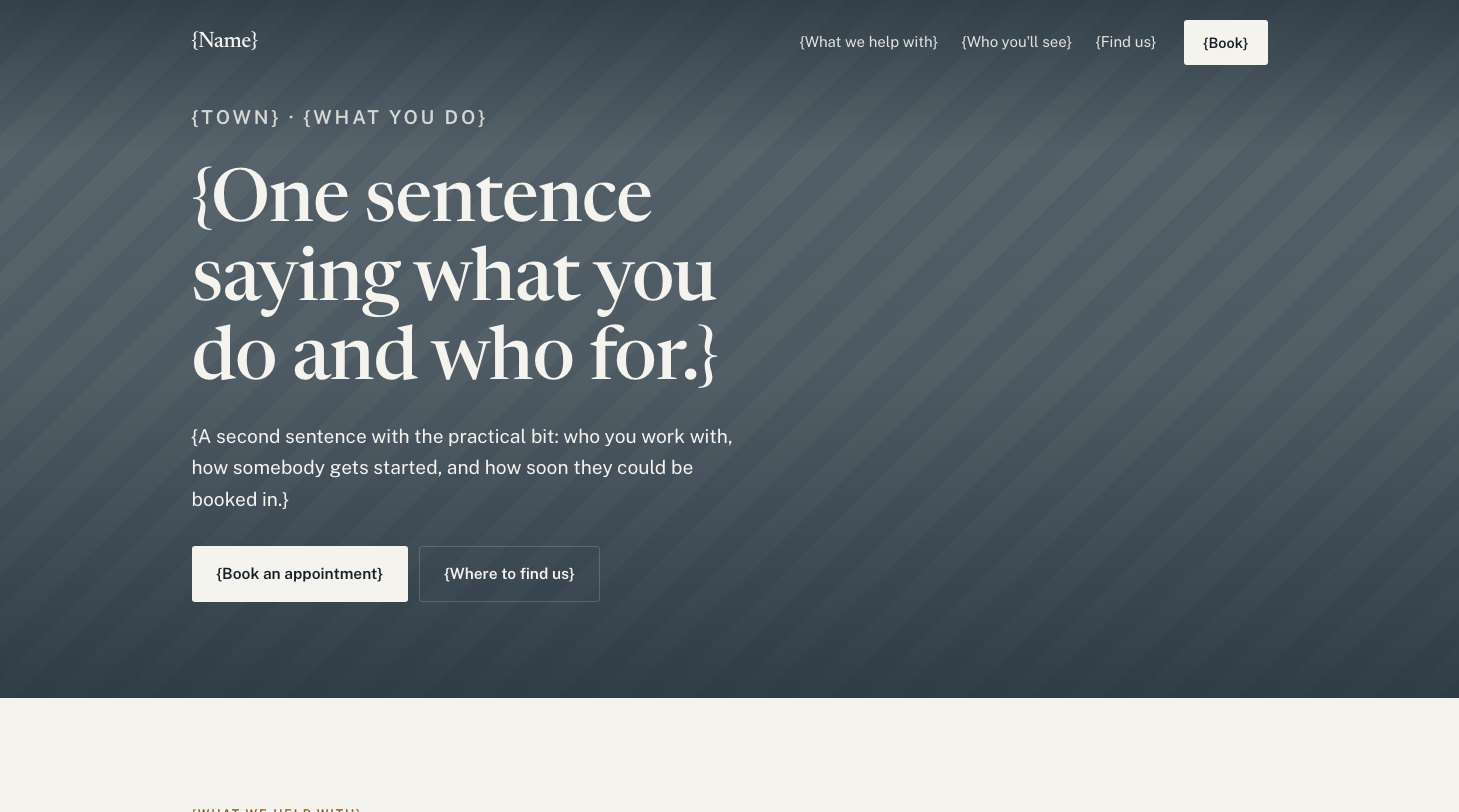
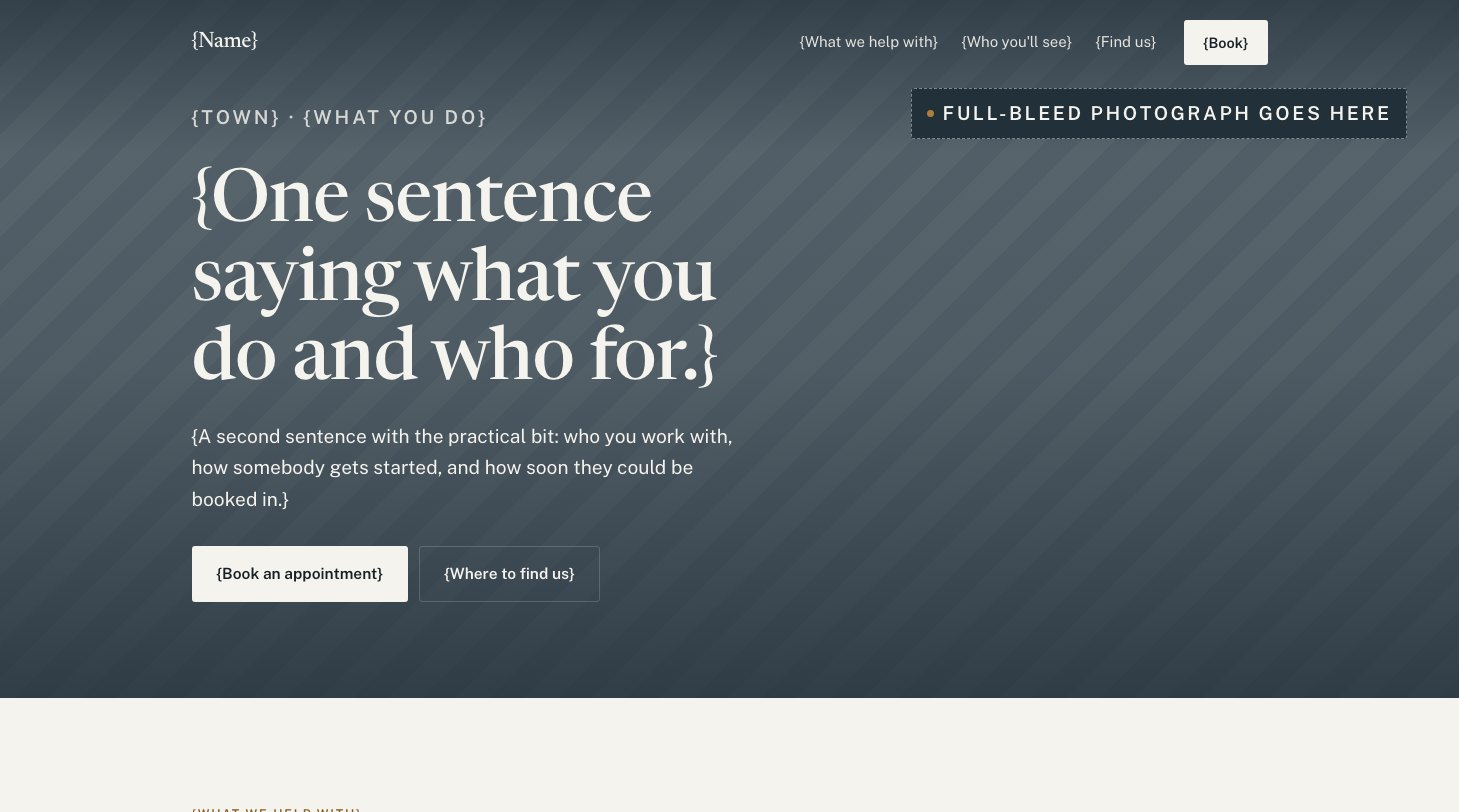
The Rooms: label the hero as a photo slot
The stand-in behind the hero was a striped mid-tone field with nothing saying
what it was. Read cold it could be a texture somebody chose rather than a slot
somebody has to fill, which is the one ambiguity a template cannot afford —
this is the largest element on the page and the only one with no bracket on it.

It now carries a small dashed chip reading "Full-bleed photograph goes here",
top right, clear of the nav above and the headline below, with its own delete
instruction in the markup and a pointer from the background comment so the
image swap and the label removal are found as one job.

Solid --deep rather than a translucent chip, because it sits over the lightest
band of the scrim and a see-through label would be the only text on the page
that fails against a pale photograph. On --deep it is 12.20:1.

Contrast pass re-run: no failures.

Changed region(s): [[0.6169, 0.0924, 0.987, 0.1847]]

diff --git a/handled-templates/rooms.html b/handled-templates/rooms.html
@@ -166,9 +166,10 @@ h1, h2, h3 {
      Landscape, at least 2000px wide, and pick one with somewhere calm in the
      lower left for the headline to sit.
 
-     Until then this mid-tone stand-in stays. It is deliberately not dark: a
-     placeholder darker than the scrim would make the hero look finished and
-     hide whether the scrim is doing anything. */
+     Until then this mid-tone stand-in stays, labelled by .hero-slot just
+     below. It is deliberately not dark: a placeholder darker than the scrim
+     would make the hero look finished and hide whether the scrim is doing
+     anything. Replacing the image and deleting the label are one job. */
   background-image: repeating-linear-gradient(135deg, #717D84 0 24px, #68747C 24px 48px);
   color: var(--chalk);
   overflow: hidden;
@@ -195,6 +196,38 @@ h1, h2, h3 {
     rgba(34, 48, 58, 0.38) 52%,
     rgba(34, 48, 58, 0.82) 100%     /* headline zone — 6.6:1 worst case */
   );
+}
+
+/* The hero placeholder label.
+   The stand-in below is a striped mid-tone field, and without a label it is
+   ambiguous — it could be read as a texture somebody chose rather than a slot
+   somebody has to fill. This says what belongs there.
+
+   Solid --deep rather than a translucent chip on purpose: it sits over the
+   lightest part of the scrim, so a see-through label would be the one piece
+   of text on the page that fails against a pale photograph. On --deep it is
+   12.20:1 and it cannot break.
+
+   DELETE THIS WHOLE ELEMENT when the photograph goes in. It is the only thing
+   in the file that is scaffolding rather than site. */
+.hero-slot {
+  position: absolute; z-index: 3;
+  top: 5.5rem; right: var(--pad);
+  display: inline-flex; align-items: center; gap: 0.55rem;
+  padding: 0.55rem 0.9rem;
+  background: var(--deep);
+  border: 1px dashed rgba(245, 243, 238, 0.45);
+  border-radius: 3px;
+  font-family: var(--body); font-weight: 600;
+  font-size: 0.7rem; letter-spacing: 0.13em; text-transform: uppercase;
+  color: var(--chalk);
+}
+.hero-slot::before {
+  content: ''; width: 7px; height: 7px; border-radius: 50%;
+  background: var(--ochre); flex: none;
+}
+@media (max-width: 620px) {
+  .hero-slot { top: 4.5rem; left: var(--pad); right: var(--pad); justify-content: center; }
 }
 
 .hero-in { position: relative; z-index: 2; width: 100%; padding-block: clamp(3rem, 8vw, 6rem); }
@@ -346,6 +379,9 @@ footer a { opacity: 0.84; }
         <a class="btn btn-light" href="{LINK: booking system, or tel:}">{Book}</a>
       </div>
     </header>
+
+    <!-- DELETE this element once the real photograph is in place. -->
+    <p class="hero-slot">Full-bleed photograph goes here</p>
 
     <div class="wrap hero-in">
       <p class="eyebrow">{TOWN} &middot; {WHAT YOU DO}</p>

diff --git a/handled-templates/rooms.md b/handled-templates/rooms.md
@@ -6,6 +6,8 @@
 
 [{Book}]({LINK: booking system, or tel:})
 
+Full-bleed photograph goes here
+
 {TOWN} · {WHAT YOU DO}
 
 # {One sentence saying what you do and who for.}
